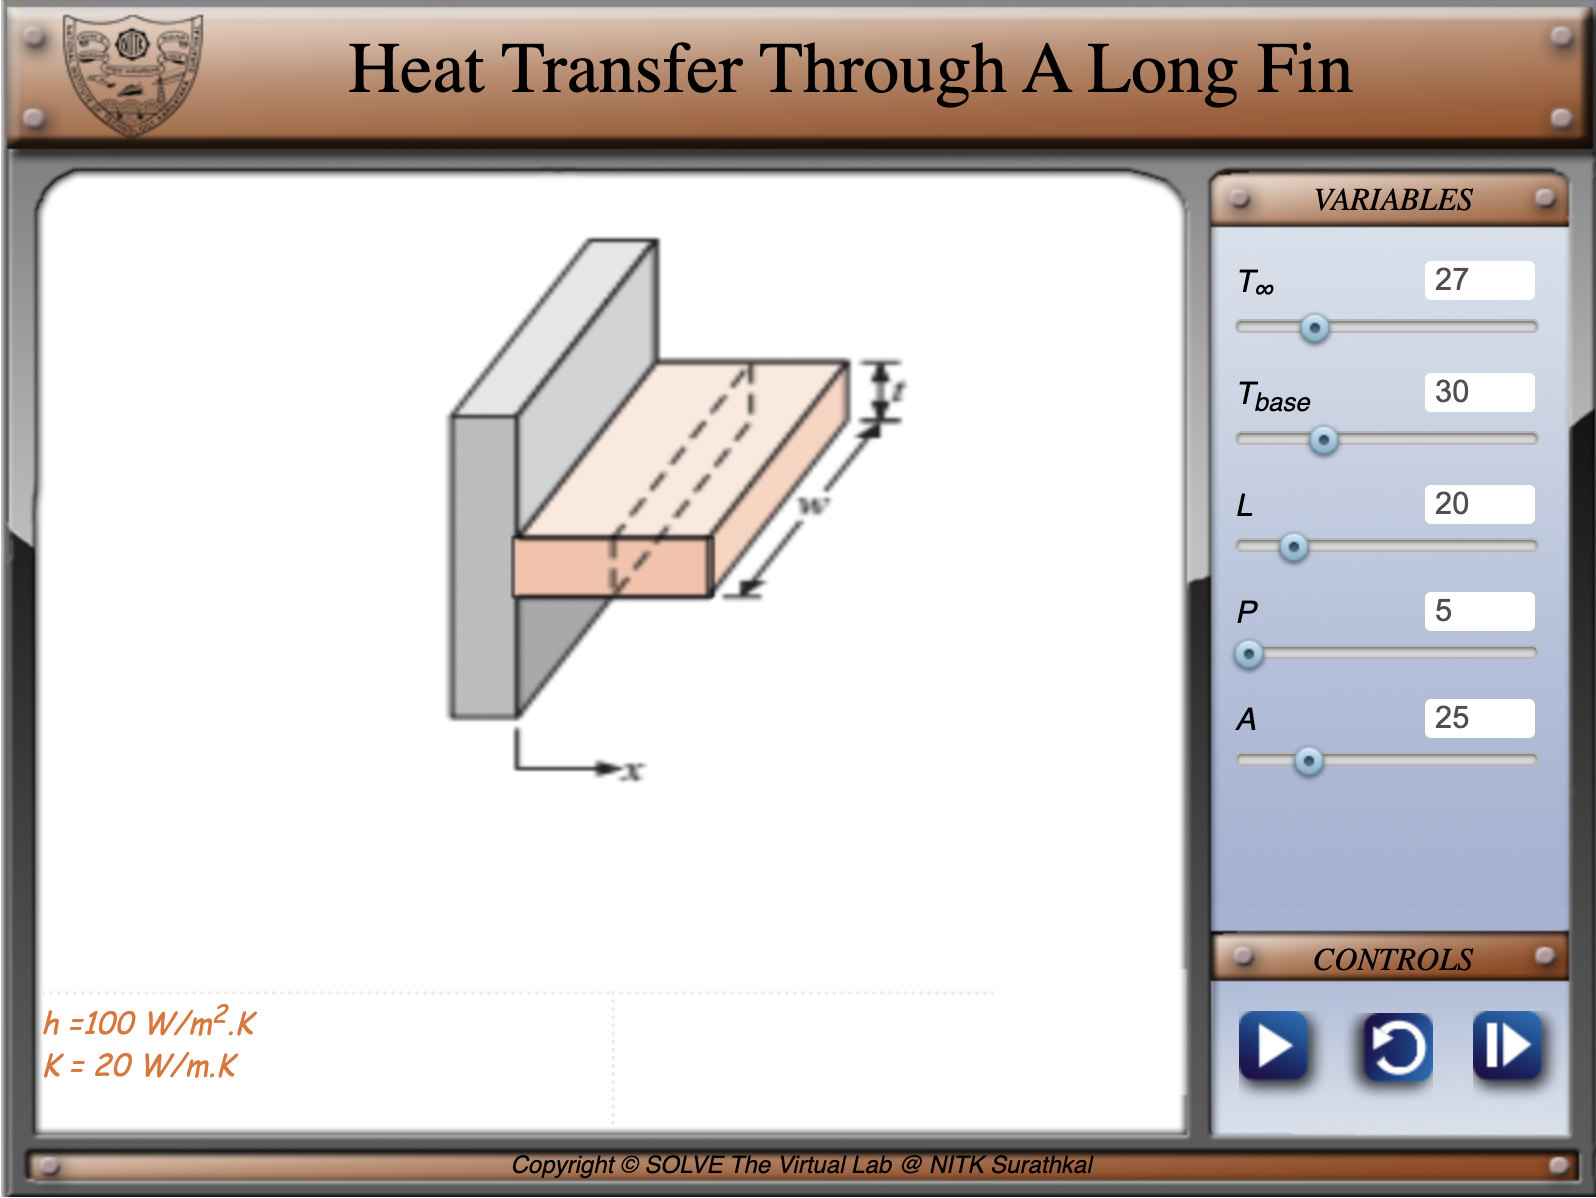
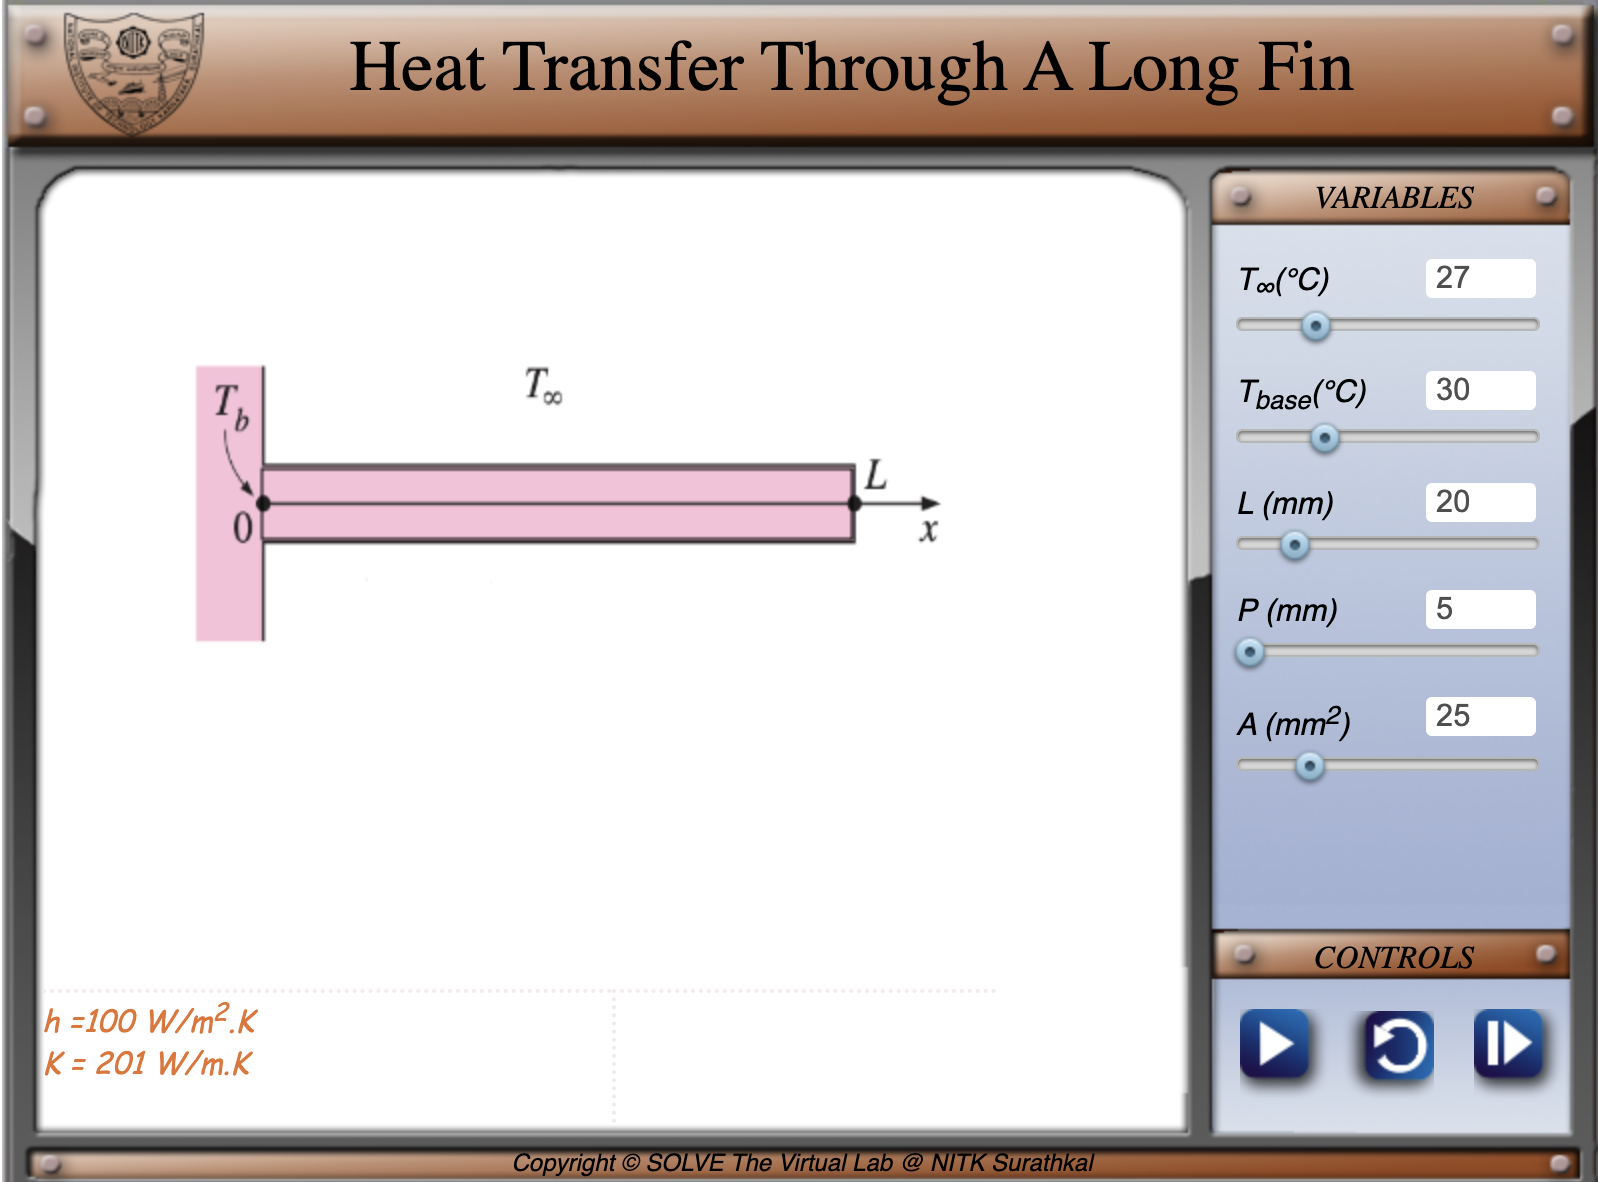
Made the changes!!

diff --git a/round-template/experiment/simulation/index.html b/round-template/experiment/simulation/index.html
@@ -28,7 +28,7 @@ var len = 20; //Meter
 var peri = 5; //Perimeter
 var a_c = 25; //Area of cross section
 var h_coeff = 100; //Convection coeff
-var k = 20;
+var k = 201;
 var qfin = 0;
 var t_l2 = 0;
 
@@ -186,7 +186,7 @@ function simperiod(){
   }
   else{
     drawGradient();
-    printcomment("Wait for "+ (5 - Math.round(time1)) + " seconds for steady state", 2);
+    printcomment("Wait till countdown reaches 0  ["+ (5 - Math.round(time1)) + " seconds left]", 2);
   }
   if (tbase < tinf) {
     printcomment("<strong>T<sub>base</sub> adjusted to <strong>" + (Math.round(tinf+5)), 2)
@@ -252,8 +252,11 @@ function calc(opt){
         datapoints.push({x:i, y:z});
     }
   }
-  q_fin = Math.sqrt(h_coeff * peri * a_c * k ) * (thetha_b).toFixed(2);
-  t_l2 = tinf + (thetha_b) * Math.exp(-m * (len / 2)).toFixed(8);
+  q_fin = Math.sqrt(h_coeff * peri * a_c * k ) * (thetha_b);
+  q_fin = q_fin.toFixed(2);
+  t_l2 = tinf + (thetha_b) * Math.exp(-m * (len / 2)).toFixed(2);
+  console.log(q_fin)
+  console.log(t_l2)
   drawgraph("graph", datapoints, "x in mm", "Temperature profile(T(x))");
   // drawgraph("graph1", datapoints_1, "x in mm", "Temperature profile(T)");
 
@@ -295,77 +298,14 @@ function drawGradient(){
   //heater simulation
   var h = 100*time1;
   //create gradient
-  var grd1 = ctx.createLinearGradient(0, 0, 0, h)
+  var grd1 = ctx.createLinearGradient(0, 0, h, 0)
   grd1.addColorStop(0,"red");
-  grd1.addColorStop(1,"white");
+  grd1.addColorStop(1,"pink");
   // Fill with gradient
   ctx.fillStyle = grd1;
-  ctx.fillRect(226, 170, 100, 30);
+  ctx.fillRect(100, 137, 295, 35);
    
    
-
-  // //tube simulation
-  // var w = 30*time1;
-  // //create gradient
-  // var grd2 = ctx.createLinearGradient(0, 0, 0, w)
-  // grd2.addColorStop(0,"red");
-  // grd2.addColorStop(1,"white");
-  // // Fill with gradient
-  // ctx.fillStyle = grd2;
-  // ctx.fillRect(90, 99, 255, 17);
-
-  // //tube gradient
-  // var x = 30*time1;
-  // var y = 200-x;
-  // // Create gradient
-  // var grd = ctx.createLinearGradient(0, 200, 0, y)
-  // grd.addColorStop(0,"red");
-  // grd.addColorStop(1,"white");
-  // // Fill with gradient
-  // ctx.fillStyle = grd;
-  // ctx.fillRect(90, 65, 255, 17);
-
-//   var x = 168,
-//     y = 281,
-//     // Radii of the white glow.
-//     innerRadius = 4*time1,
-//     outerRadius = 10*time1,2
-//     // Radius of the entire circle.
-//     radius = 50;
-
-// var gradient = ctx.createRadialGradient(x, y, innerRadius, x, y, outerRadius);
-// //gradient.addColorStop(0, 'white');
-// gradient.addColorStop(0, '#ff9999');
-// gradient.addColorStop(1, 'white');
-
-// ctx.arc(168, 281, radius, 0, 2 * Math.PI);
-
-// ctx.fillStyle = gradient;
-// ctx.fill();
-
-  // //thermometer heights add offset
-   if(time1 > 0){  th[0] += .86;};
-   if(time1 > 0){  th[1] += .84;};
-   if(time1 > 0){  th[2] += .8;};
-   if(time1 > 3){  th[3] += .55;};
-   if(time1 > 3){  th[4] += .53;};
-
-   //thermometers drawing
-    ctx.fillStyle = "black";
-    ctx.lineJoin = "round";
-
-   //thermometer reading
-  //  ctx.beginPath();
-  //  ctx.fillRect(325.25, 335, 1.5, -th[0]);
-  //  ctx.fillRect(373.25, 335, 1.5, -th[1]);
-  //  ctx.fillRect(425,    335, 1.5, -th[2]);
-  //  ctx.fillRect(473.25, 335, 1.5, -th[3]);
-  //  ctx.fillRect(521.25, 335, 1.5, -th[4]);
-  //  ctx.arc(168, 281, 50, 0, 2 * Math.PI);   
-  //  ctx.stroke();
-  //  ctx.beginPath();
-  //  ctx.arc(168, 281, 20, 0, 2 * Math.PI);
-  //  ctx.stroke();
 }
 
 // initial model 
@@ -376,34 +316,23 @@ function drawModel()
   ctx.clearRect(0,0,250,400);  //clears the complete canvas#simscreen everytime
   
   var background = new Image();
-  background.src = "./images//model3.png";
+  background.src = "./images//model4.png";
 
   // Make sure the image is loaded first otherwise nothing will draw.
   background.onload = function(){
-    ctx.drawImage(background, 150, 0, 300, 300); 
+    ctx.drawImage(background, 50, 50, 400, 200); 
     //ctx.clearRect(78, 210, 46, 64);
     ctx.font = "15px Comic San MS";
 
     ctx.fillStyle = "black";
    ctx.lineJoin = "round";
-  //  ctx.beginPath();
-  //  ctx.rect(420, 230, 11, 112); //For T3 tube
-  //  ctx.fillRect(424, 332, 4, 7); //For T3 base node
-  //  ctx.rect(469, 230, 11, 112); //For T4 tube
-  //  ctx.fillRect(472, 332, 4, 7); 
-  //  ctx.rect(516, 230, 11, 112);
-  //  ctx.fillRect(520, 332, 4, 7);
-  //  ctx.rect(320, 230, 11, 112);
-  //  ctx.fillRect(324, 332, 4, 7);
-  //  ctx.rect(368, 230, 11, 112);
-  //  ctx.fillRect(372, 332, 4, 7);
 
-   ctx.rect(226, 170, 100, 30);
+   ctx.rect(100, 137, 295, 35);
    ctx.stroke();
 
  
     drawGradient();
-    printcomment("\th =100 W/m<sup>2</sup>.K<br>\t<i>K</i>  = 20 W/m.K", 1)
+    printcomment("\th =100 W/m<sup>2</sup>.K<br>\t<i>K</i>  = 201 W/m.K", 1)
   }
 }
   
@@ -619,7 +548,7 @@ The simulation requires JavaScript to be enabled.
 
 <!-- Region for calculation visible after onclick switchbutton-->
 <div id="calculation" style="visibility: hidden">
-  <p><i>q<sub>f</sub> = &#177; &radic; <span style='border-top:1px solid black'>(h.P.k.A.(T<sub>b</sub> - T<sub>∞</sub>))<br>
+  <p><i>q<sub>f</sub> = &#177; &radic;(h.P.k.A.(T<sub>b</sub> - T<sub>∞</sub>))<br>
   <p><b>Heat transfer rate through a long fin, </b></p>
   <div class="tooltip"><label for="qvalue"><i> q<sub>f</sub> = </i></label><input type="number" id="qvalue" style="width: 125px;"> W <sub>(upto 2 decimal points)</sub>
     <span class="tooltiptext"><script>

diff --git a/round-template/experiment/pretest.js b/round-template/experiment/pretest.js
@@ -80,7 +80,7 @@
 
 const myQuestions = [
   {
-    question: "The temperature distribution along a long fin is given by the equation T = T0 - T∞ * exp(-mx), where T0 is the base temperature, T∞ is the surrounding temperature, m is a constant, and x is the distance from the base of the fin. If m increases, what happens to the temperature drop along the length of the fin?",
+    question: "The temperature distribution along a long fin is given by the equation T = (T<sub>0</sub> - T<sub>∞</sub>)*e<sup>(-mx)</sup>, where T<sub>0</sub> is the base temperature, T<sub>∞</sub> is the surrounding temperature, m is a constant, and x is the distance from the base of the fin. If m increases, what happens to the temperature drop along the length of the fin?",
     answers: {
       a: " The temperature drop increases.",
       b: " The temperature drop decreases.",
@@ -98,6 +98,26 @@ const myQuestions = [
       c: "It cannot be determined from the information given.",
     },
     correctAnswer: "a"
+  },
+
+  {
+    question: "What is the main purpose of fins in heat transfer?",
+    answers: {
+      a: "To increase the surface area for convection",
+      b: "To decrease the thermal conductivity of the material",
+      c: "To prevent heat loss"
+    },
+    correctAnswer: "a"
+  },
+
+  {
+    question: "Why is it important to consider the variation of the convection heat transfer coefficient along the fin in the analysis of fins?",
+    answers: {
+      a: "Because the convection heat transfer coefficient is a strong function of the fluid motion at that point",
+      b: "Because the value of h is usually much lower at the fin base than it is at the fin tip",
+      c: "All the above"
+    },
+    correctAnswer: "c"
   }
 ];
 

diff --git a/round-template/experiment/posttest.js b/round-template/experiment/posttest.js
@@ -107,6 +107,17 @@
         d: "80°C"
       },
       correctAnswer: "c"
+    },
+
+    {
+      question: "What is one of the assumptions made in the analysis of fins?",
+      answers: {
+        a: "Constant thermal conductivity of the material",
+        b: "Constant and uniform convection heat transfer coefficient over the entire surface of the fin",
+        c: "Steady operation with no heat generation in the fin",
+        d: "All of the above"
+      },
+      correctAnswer: "d"
     }
   ];
 

diff --git a/round-template/experiment/theory.md b/round-template/experiment/theory.md
@@ -1,34 +1,27 @@
-## INTRODUCTION<br>
-The study of heat transfer in fins helps us to understand how fins work and how to design them to achieve the desired heat transfer rate. This knowledge can be used to improve the performance of many different devices and systems.
+The rate of heat transfer from a surface at a temperature Ts to the surrounding
+medium at T<sub>∞</sub> is given by Newton’s law of cooling as:
 <br>
 <br>
-Here are some specific reasons why we study heat transfer in fins:
+<center>
+<strong>
+Q<sub>conv</sub> = h *A <sub>s</sub>* (T<sub>s</sub> - T<sub>∞</sub>)
+</strong>
+</center>
+<br>
+<br>
+where A <sub>s</sub> is the heat transfer surface area and h is the convection heat transfer coefficient.<br>
+<br>
+When the temperatures T<sub>s</sub> and T<sub>∞</sub> are fixed by design considerations, as is often the case, there are two ways to increase the rate of heat transfer:<br>
+<br>
 <ul>
-<li>Fins can increase the surface area of a heat transfer surface by a factor of many times. This can significantly increase the rate of heat transfer.</li>
-<li>Fins can be made from a variety of materials with different thermal conductivities. This allows us to tailor the heat transfer rate to the specific application.</li>
-<li>Fins can be arranged in a variety of configurations to optimize the heat transfer rate.</li>
-<li>
-The study of heat transfer in fins can help us to understand the effects of different factors on the heat transfer rate, such as the fin length, the cross-sectional area, the thermal conductivity of the fin material, the temperature difference between the base surface and the fluid, and the velocity of the fluid.</li>
+    <li>To increase the convection heat transfer coefficient <strong>h</strong></li>
+    <li>To increase the surface area <strong> A <sub>s</sub> </strong>.</li>
 </ul>
-The study of heat transfer in fins is a valuable tool for engineers and scientists who work in a variety of fields. It helps us to design and improve devices and systems that require heat transfer.
+<br>Increasing h may require the installation of a pump or fan, or
+replacing the existing one with a larger one, but this approach may or may not
+be practical. 
+<br>Besides, it may not be adequate. <br>The alternative is to increase the
+surface area by attaching to the surface extended surfaces called fins made of
+highly conductive materials such as aluminum. 
 <br>
-The heat transfer through a fin can be modeled using the fin equation. The fin equation is a differential equation that relates the heat transfer rate from the base surface to the fin geometry and the fluid conditions.<br>
-<br>Temperature Difference for <b><i> a long fin</i></b> is:<br>
-<p><i>T<sub>at x</sub> = (T<sub>base</sub> - T<sub>∞</sub>).e<sup>-m.x</sup><br>
-
-
-<br>Heat Transfer Rate equation for <b><i> a long fin</i></b> is:<br>
-<p><i>q<sub>f</sub> = &#177; &radic; <span style='border-top:1px solid black'>(h.P.k.A.(T<sub>b</sub> - T<sub>∞</sub>))<br>
-<!-- q = khA (Tbase - T∞) / L -->
-<!-- ![](images/6.png) -->
-
-
-<br>where:
-<br>q<sub>f</sub> is the heat transfer rate in watts
-<br>k is the thermal conductivity of the fin material in watts per meter per kelvin
-<br>h is the convective heat transfer coefficient between the fin and the fluid in watts per square meter per kelvin.
-<br>A is the cross-sectional area of the fin in square meters
-<br>T<sub>base</sub> is the temperature of the base surface of the fin in kelvins
-<br>T<sub>∞</sub> is the temperature of the fluid in kelvins
-<br>L is the length of the fin in millimeters
  

diff --git a/round-template/experiment/aim.md b/round-template/experiment/aim.md
@@ -1,2 +1,1 @@
-We study heat transfer in fins because fins are an effective way to increase the rate of heat transfer from a surface to a fluid. This is important in many applications.
-<br>The study of heat transfer in fins helps us to understand how fins work and how to design them to achieve the desired heat transfer rate. This knowledge can be used to improve the performance of many different devices and systems.
+To experimentally study the heat transfer through a long fin experiment and compare it with analytical solutions

diff --git a/round-template/experiment/procedure.md b/round-template/experiment/procedure.md
@@ -10,4 +10,4 @@
 ![alt text](images/img3.png)<br>
 
 4. Finally , check the calculated values by entering them in their respective boxes. Click back if you want to go back to previous slide. <br>
-![alt text](images/img5.png)<br>
+![alt text](images/img4.png)<br>
